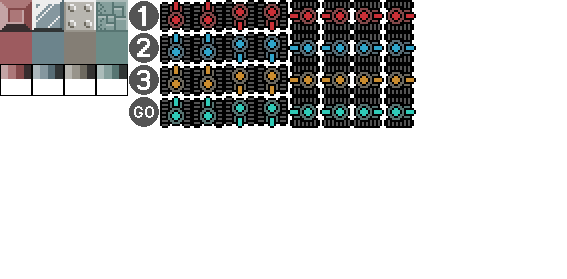
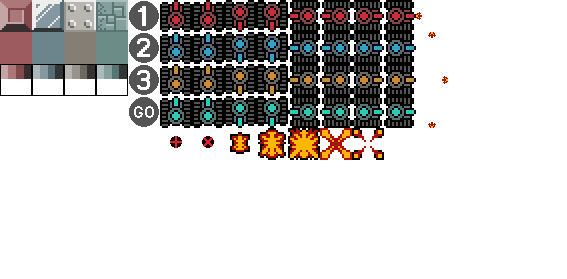
begin bomb shooting

diff --git a/js/bomb.js b/js/bomb.js
@@ -1,0 +1,74 @@
+function Bomb() {
+    this.x = 1;
+    this.y = 1;
+    this.dy = 0;
+    this.dx = 0;
+    this.width = 64;
+    this.height = 64;
+    this.count = 0;
+    this.speed = 0.01;
+    this.frameCount = 0;
+    this.animateSpeed = 10;
+}
+
+Bomb.prototype.draw = function(ctx) {
+    if (this.frameCount % 2) {
+        ctx.drawImage(tiles, 160, 4 * tilesize, tilesize, tilesize, this.x * tileDrawSize, this.y * tileDrawSize, tileDrawSize, tileDrawSize);
+    } else {
+        ctx.drawImage(tiles, 160 + tilesize, 4 * tilesize, tilesize, tilesize, this.x * tileDrawSize, this.y * tileDrawSize, tileDrawSize, tileDrawSize);
+    }
+    this.count++;
+
+    if (this.count % this.animateSpeed == 0) {
+        this.frameCount++;
+    }
+
+    if (this.frameCount > 2) {
+        this.frameCount = 0;
+    }
+}
+
+Bomb.prototype.update = function(ctx) {
+    this.x += this.dx;
+    this.y += this.dy;
+}
+
+var madeBombs = [];
+
+function makeBomb(x, y, dx, dy, madeBombs) {
+    var newBomb = new Bomb();
+
+    newBomb.x = x;
+    newBomb.y = y;
+    newBomb.dx = dx;
+    newBomb.dy = dy;
+
+    madeBombs.push(newBomb);
+
+    return madeBombs;
+}
+
+function drawBombs() {
+    for (i = 0; i < madeBombs.length; i++) {
+        madeBombs[i].draw(ctx);
+        /*for (j = 0; j < grid.length; j++) {
+            var block = grid[j];
+            if (block.collide) {
+                var dir = colCheck(players[i], block);
+                if (dir) {
+                    if (players[i].facing == players[i].nextDir) {
+                        players[i].facing = random(0, 4);
+                    } else {
+                        players[i].facing = players[i].nextDir;
+                    }
+                }
+            }
+        }*/
+    }
+}
+
+function updateBombs() {
+    for (i = 0; i < madeBombs.length; i++) {
+        madeBombs[i].update(ctx);
+    }
+}

diff --git a/js/player.js b/js/player.js
@@ -66,6 +66,10 @@ Player.prototype.update = function(ctx) {
         } else if (upPressed) {
             this.nextDir = 0;
         }
+        if (spacePressed) {
+            makeBomb(this.x + 1, this.y, 0.13, 0, madeBombs);
+            spacePressed = false;
+        }
     } else {
 
     }

diff --git a/js/main.js b/js/main.js
@@ -31,12 +31,14 @@ function clearCanvas() {
 
 function update() {
     updatePlayers();
+    updateBombs();
 }
 
 function draw() {
     clearCanvas();
     fgTileArray = drawMap(map);
     drawPlayers(fgTileArray);
+    drawBombs();
 }
 
 function main() {

diff --git a/index.html b/index.html
@@ -32,6 +32,7 @@
     <script src='js/utils.js'></script>
     <script src='js/load.js'></script>
     <script src='js/player.js'></script>
+    <script src='js/bomb.js'></script>
 </body>
 
 <p id="info"></p>
